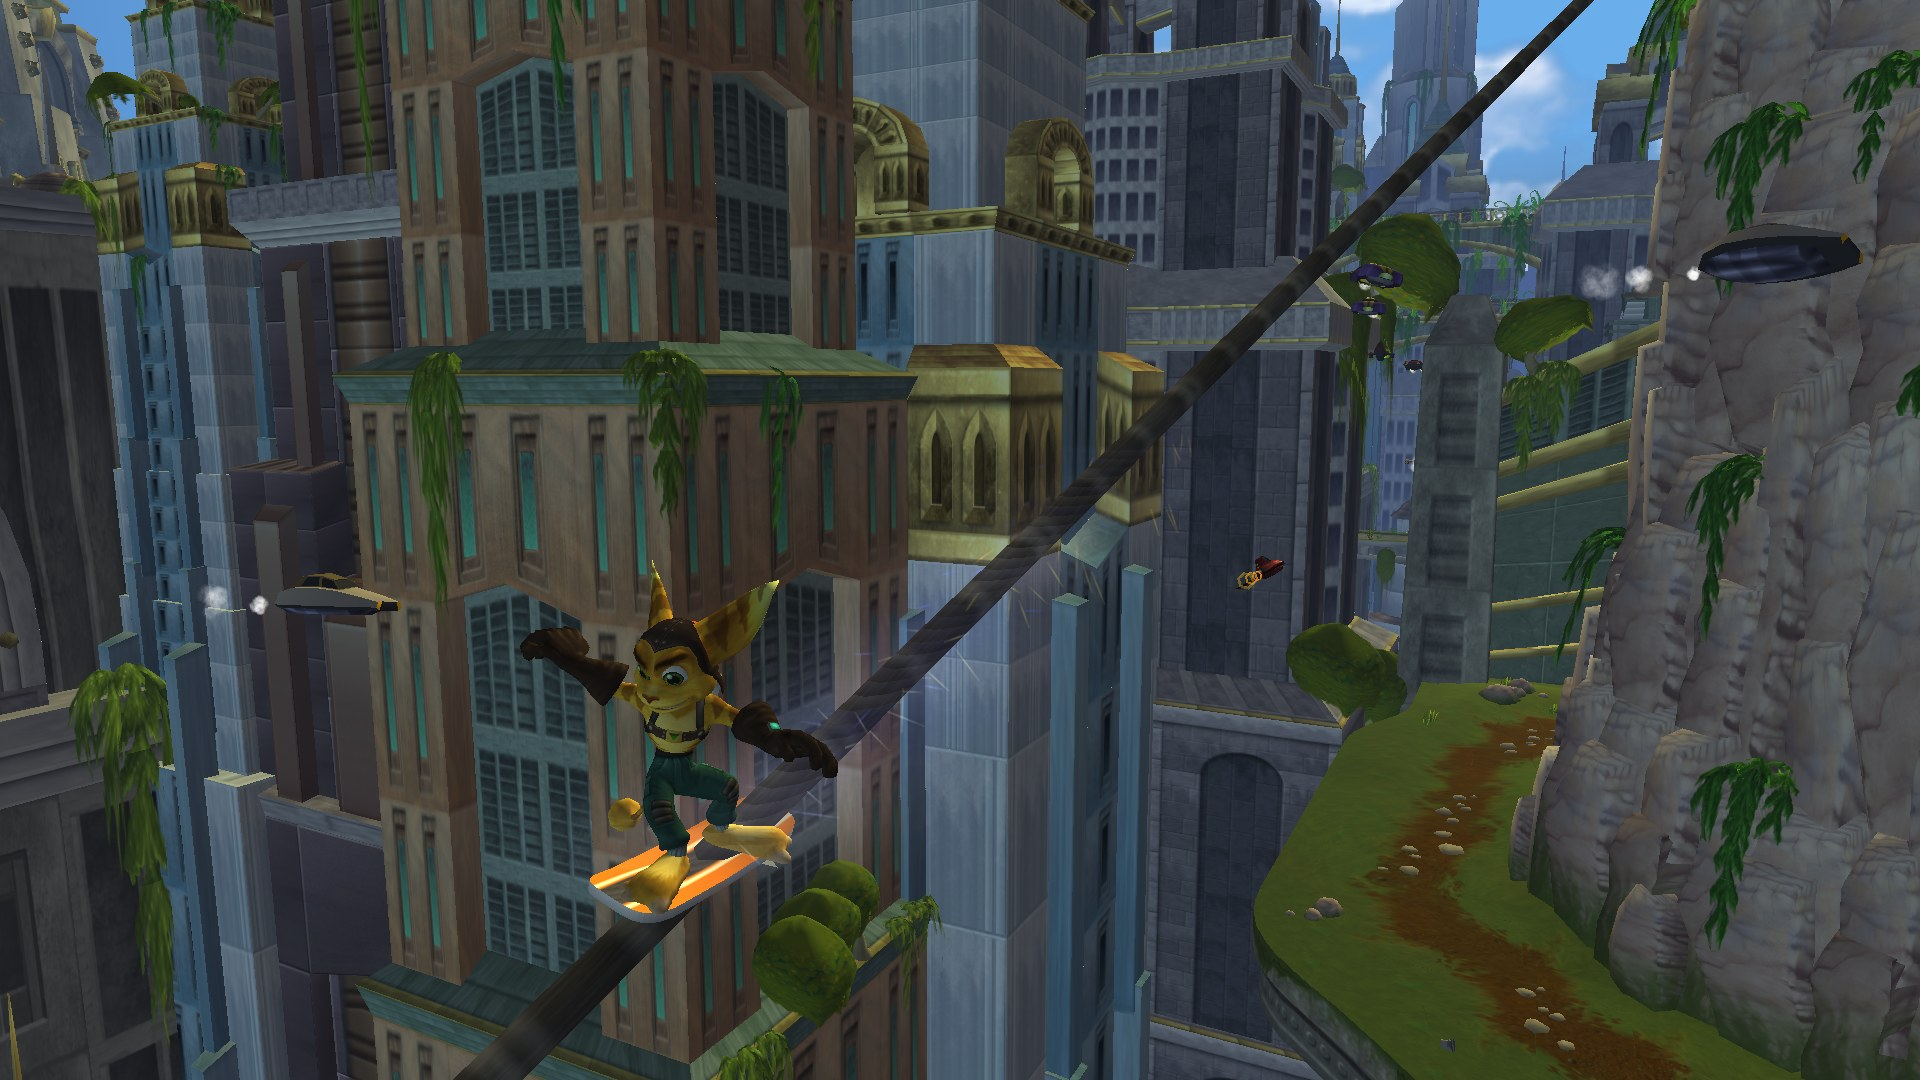
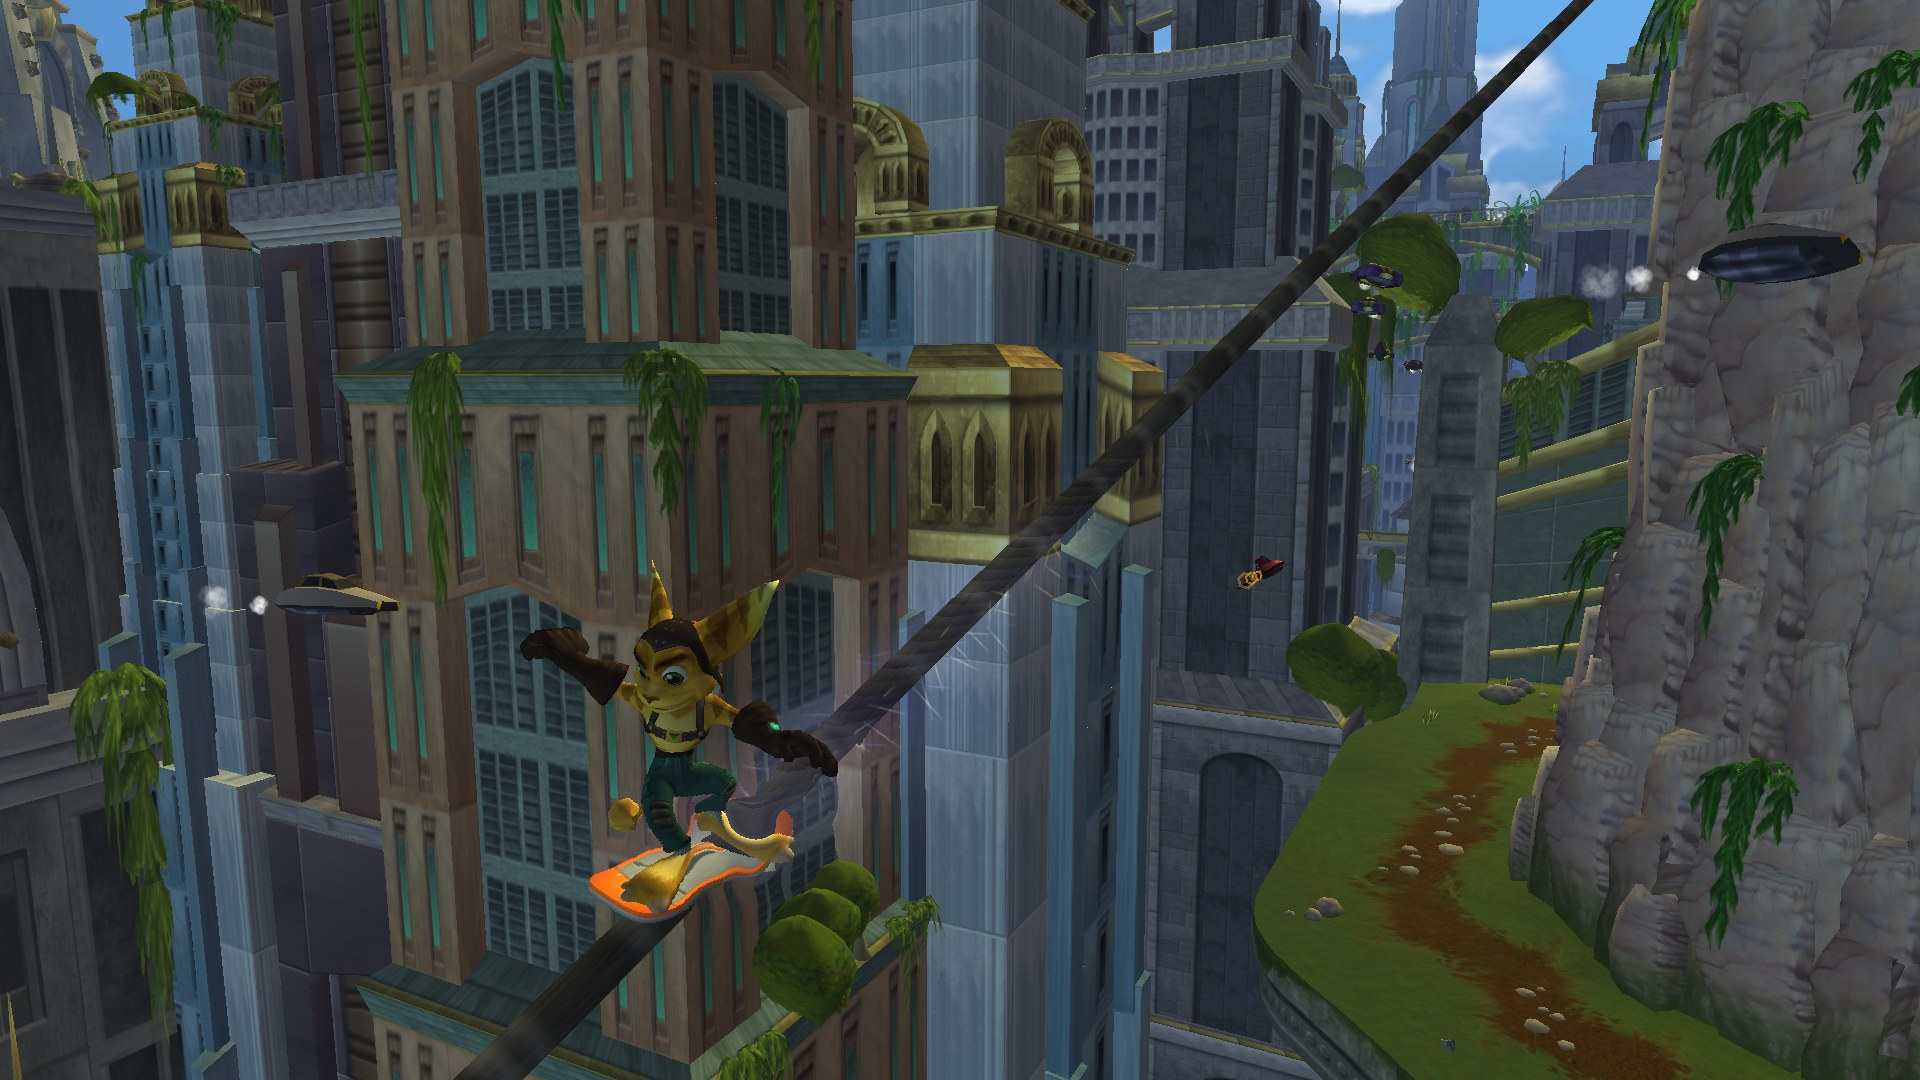
feat: board paint closer to the JET-Board, in orange
Grey plates with orange caps and rails, a dark grip, an orange hub and a
swirled glowing fan underneath, on a 256 px texture. Same model. New icon,
grind and trick shots.

Changed region(s): [[0.3125, 0.7333, 0.4375, 0.8556]]

diff --git a/tools/make_board.py b/tools/make_board.py
@@ -5,8 +5,8 @@
 
 Everything is made here from numbers, so the model is the mod's own (nothing from either game):
 a deck with a kicked nose and tail, a grip stripe, a hover body under it with two glowing jets and
-tail fins, and an orange and grey paint. The model is in metres, glTF's axes: +y up, +z the nose, the deck's top
-at y = 0 (where the rider's feet go), centred on the origin.
+tail fins, and a grey and orange paint with a glowing fan underneath. The model is in metres,
+glTF's axes: +y up, +z the nose, the deck's top at y = 0 (where the rider's feet go), centred on the origin.
 
     python3 tools/make_board.py            # writes assets/board.glb and assets/board.png
 
@@ -32,42 +32,131 @@ BODY_LENGTH = 0.80
 BODY_DROP = 0.055   # its axis below the deck's underside
 JET_Z = 0.24        # the two jets, ahead of and behind the middle
 
-# The texture: a 64x64 atlas of flat regions, u right, v down.
-TEX = 64
+# The texture: a 256x256 atlas of flat regions, u right, v down.
+TEX = 256
 REGIONS = {  # name: (u0, v0, u1, v1) in texels
-    "top": (0, 0, 32, 32),
-    "side": (32, 0, 64, 16),
-    "bottom": (32, 16, 64, 32),
-    "pod": (0, 32, 32, 64),
-    "glow": (32, 32, 64, 64),
+    "top": (0, 0, 96, 256),
+    "bottom": (96, 0, 192, 256),
+    "side": (192, 0, 256, 64),
+    "pod": (192, 64, 256, 160),
+    "glow": (192, 160, 256, 256),
 }
+
+# The paint: grey plates, orange caps and rails (Ratchet's orange), a dark grip, a blue glow.
+PLATE, PLATE_DARK = (132, 140, 146), (92, 100, 108)
+ORANGE, ORANGE_DARK, ORANGE_LIGHT = (240, 116, 30), (176, 70, 16), (255, 178, 92)
+GRIP, SEAM = (58, 60, 66), (64, 70, 76)
+GLOW = (100, 214, 255)
+
+
+def mix(a, b, t):
+    t = min(max(t, 0.0), 1.0)
+    return tuple(a[i] + (b[i] - a[i]) * t for i in range(3))
+
+
+def smooth(e0, e1, x):
+    t = min(max((x - e0) / (e1 - e0), 0.0), 1.0)
+    return t * t * (3 - 2 * t)
+
+
+def grain(x, y, k=1):
+    """A fixed noise in -1..1 per texel (no random, so the texture is the same every run)."""
+    h = (x * 374761393 + y * 668265263 + k * 2147483647) & 0xFFFFFFFF
+    h = ((h ^ (h >> 13)) * 1274126177) & 0xFFFFFFFF
+    return ((h >> 8) & 0xFF) / 127.5 - 1.0
+
+
+def rgba(c):
+    return tuple(int(min(255, max(0, v))) for v in c) + (255,)
+
+
+def top(u, v, x, y):
+    """The deck: grey plates with seams, orange caps at nose and tail with rivets, orange rails
+    along the edges, a cross-hatched grip down the middle and an orange dome on a ring."""
+    a, b = (u - 0.5) * 2, (v - 0.5) * 2  # b: -1 tail, +1 nose
+    ax = abs(a)
+    c = mix(PLATE, PLATE_DARK, ax ** 2.2 * 0.7 + abs(b) ** 3 * 0.2)
+    c = mix(c, tuple(min(255, k + 18) for k in c), max(0, grain(x // 4, y // 8, 2)) * 0.35)
+    for sb in (-0.42, 0.42):
+        d = b - sb
+        if abs(d) < 0.02:
+            c = mix(c, SEAM, 0.85)
+        elif 0.02 <= d < 0.04:
+            c = mix(c, (255, 255, 255), 0.12)
+    cap = abs(b) - 0.70 + 0.12 * a * a
+    if cap > 0:
+        c = mix(ORANGE, ORANGE_DARK, cap * 2.2 + ax ** 2 * 0.5)
+        c = mix(c, ORANGE_LIGHT, max(0.0, 0.5 - ax) * 0.8 * max(0.0, 1 - cap * 4))
+        if cap < 0.02:
+            c = mix(c, SEAM, 0.7)
+        for k in (-0.55, 0.0, 0.55):
+            if math.hypot((a - k) * WIDTH, (cap - 0.05) * LENGTH / 2) < 0.012:
+                c = mix(c, (230, 232, 236), 0.8)
+        return rgba(c)
+    if ax > 0.86:
+        c = mix(ORANGE, ORANGE_DARK, (ax - 0.86) * 6)
+        if ax < 0.88:
+            c = mix(c, SEAM, 0.6)
+    elif ax < 0.30 and abs(b) < 0.62:
+        hatch = (x + y) % 4 == 0 or (x - y) % 4 == 0
+        c = mix(GRIP, tuple(k + 14 for k in GRIP), 0.6 if hatch else 0.0)
+        if ax > 0.28:
+            c = mix(c, SEAM, 0.5)
+    r = math.hypot(a * WIDTH, b * LENGTH) / 2
+    if r < 0.055:
+        c = mix(mix(ORANGE, (255, 255, 255), 0.35), mix(ORANGE, (0, 0, 0), 0.35), r / 0.055 + b * 2)
+    elif r < 0.072:
+        c = mix((200, 204, 208), (120, 126, 132), (r - 0.055) / 0.017)
+        if r > 0.068:
+            c = mix(c, SEAM, 0.7)
+    return rgba(c)
+
+
+def bottom(u, v, x, y):
+    """Under the deck: a swirled fan of glowing blades round a silver hub, an orange rim."""
+    a, b = (u - 0.5) * 2 * WIDTH / LENGTH, (v - 0.5) * 2
+    r, ang = math.hypot(a, b), math.atan2(b, a)
+    c = mix((74, 86, 102), (44, 52, 64), r)
+    blade = (ang * 8 / (2 * math.pi) + r * 3.0) % 1.0
+    e = min(blade, 1 - blade)
+    if r < 0.12:
+        c = mix((190, 194, 198), (110, 116, 122), r / 0.12)
+    elif r < 0.15:
+        c = GLOW
+    elif r < 0.78:
+        c = mix(c, (32, 38, 48), smooth(0.35, 0.0, blade) * 0.5)
+        if e < 0.06:
+            c = mix(GLOW, (50, 130, 200), e / 0.06)
+    elif r < 0.84:
+        c = mix((150, 104, 66), (100, 70, 44), (r - 0.78) / 0.06)
+    else:
+        c = mix(ORANGE_DARK, ORANGE, 0.5 + 0.3 * grain(x // 4, y // 4, 5))
+    return rgba(c)
+
+
+def side(u, v, x, y):
+    if v < 0.45:
+        return rgba(mix(ORANGE, ORANGE_DARK, v * 1.6))
+    return rgba(mix((150, 156, 162), (90, 96, 104), (v - 0.45) * 1.8))
+
+
+def pod(u, v, x, y):
+    base = mix((176, 182, 188), (92, 98, 106), abs(u - 0.5) * 2)
+    return rgba(mix(base, ORANGE, 0.9) if (v * 5) % 1.0 < 0.16 else base)
+
+
+def glow(u, v, x, y):
+    return rgba(mix(GLOW, (60, 150, 220), abs(v - 0.5) * 2))
 
 
 def texture():
     """The atlas as RGBA rows: painted per region."""
     px = [[(0, 0, 0, 255)] * TEX for _ in range(TEX)]
-
-    def fill(region, fn):
-        u0, v0, u1, v1 = REGIONS[region]
+    for name, fn in (("top", top), ("bottom", bottom), ("side", side), ("pod", pod), ("glow", glow)):
+        u0, v0, u1, v1 = REGIONS[name]
         for y in range(v0, v1):
             for x in range(u0, u1):
-                px[y][x] = fn((x - u0) / (u1 - u0), (y - v0) / (v1 - v0))
-
-    def top(u, v):
-        # Orange paint with a dark grip stripe down the middle and two thin cream lines.
-        if abs(u - 0.5) < 0.18:
-            noise = ((int(u * 97) * 31 + int(v * 89) * 17) % 7) * 3
-            return (52 + noise, 50 + noise, 56 + noise, 255)
-        if abs(abs(u - 0.5) - 0.24) < 0.025:
-            return (240, 226, 190, 255)
-        shade = int(18 * v)
-        return (236 - shade, 120 - shade // 2, 28, 255)
-
-    fill("top", top)
-    fill("side", lambda u, v: (150 - int(30 * v), 156 - int(30 * v), 166 - int(30 * v), 255))
-    fill("bottom", lambda u, v: (70, 74, 82, 255) if (int(u * 8) + int(v * 2)) % 2 else (82, 86, 94, 255))
-    fill("pod", lambda u, v: (96 + int(60 * abs(math.sin(v * math.pi))),) * 3 + (255,))
-    fill("glow", lambda u, v: (90, 230, 255, 255) if abs(v - 0.5) < 0.3 else (40, 140, 200, 255))
+                px[y][x] = fn((x - u0 + 0.5) / (u1 - u0), (y - v0 + 0.5) / (v1 - v0), x, y)
     return px
 
 
